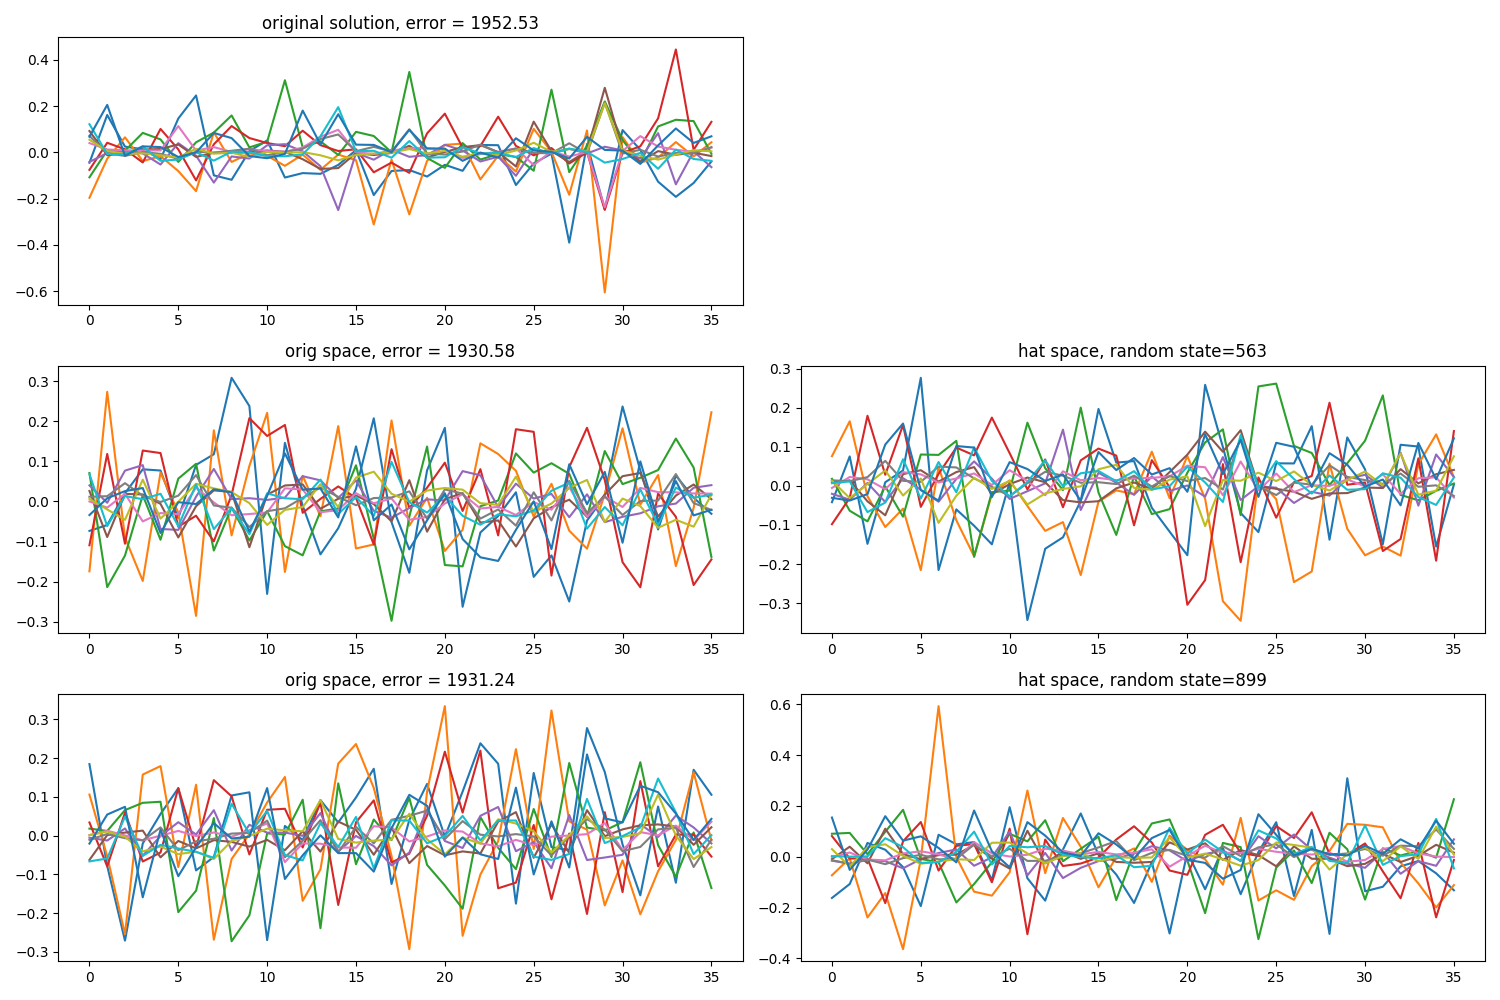
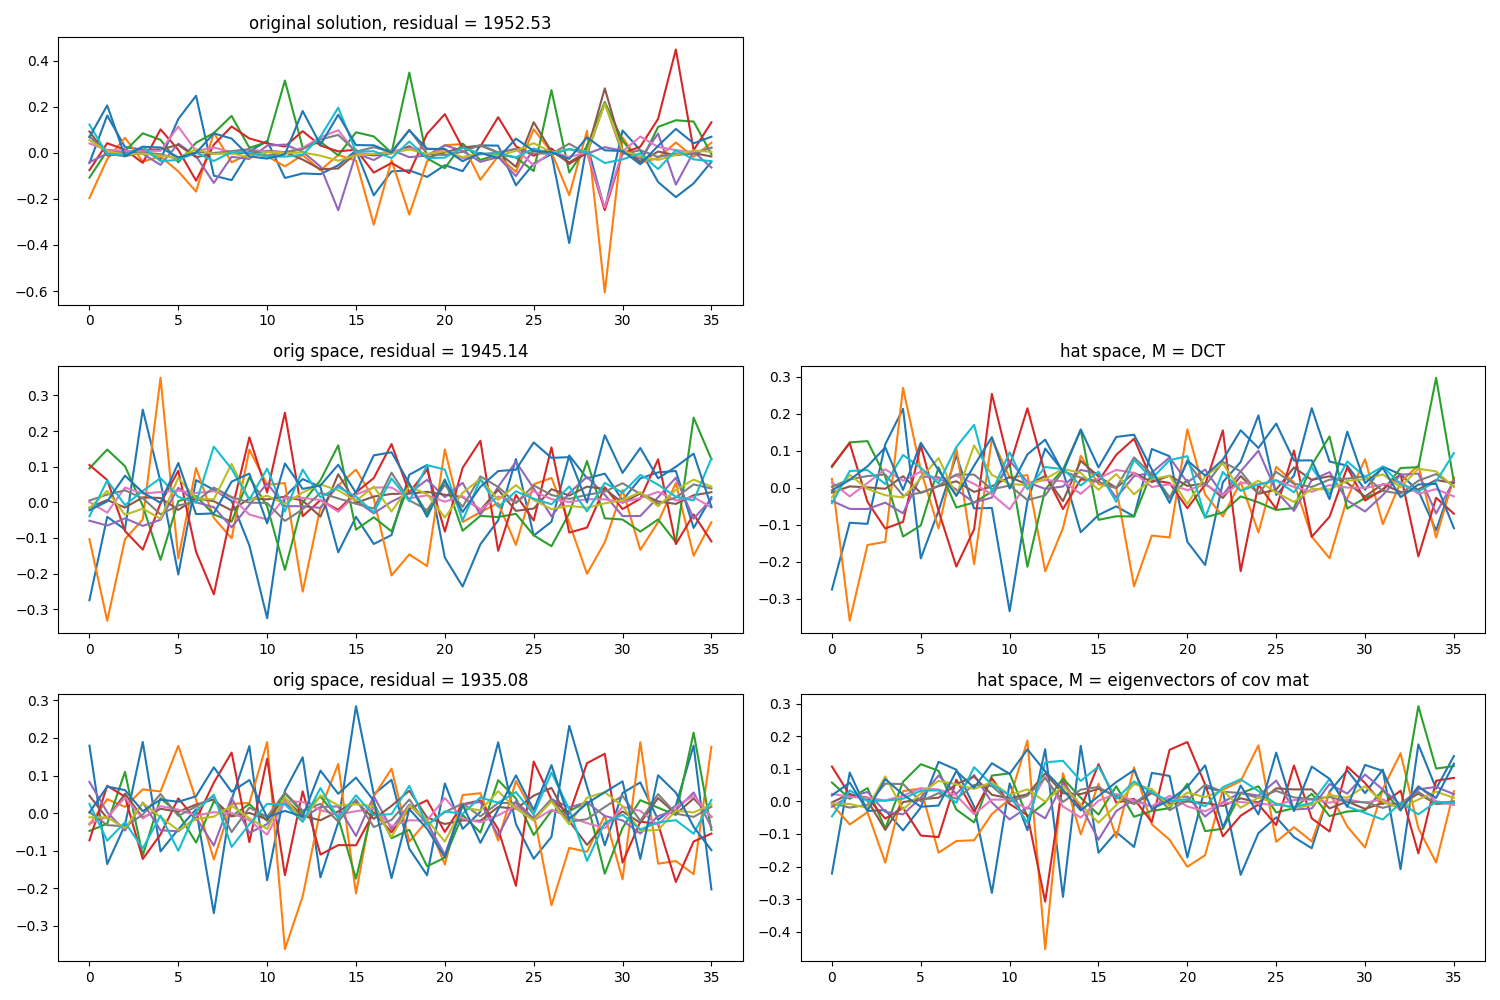
fixed Cholesky_direct to work correctly for original space. inverse and cholesky decomposition utilize broadcast numpy linalg property

diff --git a/compare_real_dts.py b/compare_real_dts.py
@@ -4,10 +4,12 @@ import matplotlib.pyplot as plt
 import algo
 import pickle
 from matplotlib.pyplot import cm
-from mprod import generate_haar, generate_dct
+from mprod import generate_haar, generate_dct, x_m3
+from numpy import linalg as LA
 
 
-tenX = pickle.load(open('datasets/rainfall_ten', 'rb')).transpose(2, 1, 0)
+R = 1
+tenX = pickle.load(open('datasets/rainfall_ten', 'rb'))
 print(tenX.shape)
 
 tenA = tenX[:, :-2, :]
@@ -25,7 +27,7 @@ tenA_norm = (tenA - np.expand_dims(tenA.mean(0), 0))
 omatB_norm = (omatB - np.expand_dims(omatB.mean(0), 0))
 tenAbias = np.concatenate((np.ones((m, 1, n)), tenA_norm), 1)
 
-X_pred_identity = algo.Cholesky_direct(tenA_norm, omatB_norm, reg=0.1)
+X_pred_identity = algo.Cholesky_direct(tenA_norm, omatB_norm, reg=R)
 identity_error = algo.tensor_frob_norm(algo.facewise_mult(tenA_norm, X_pred_identity)-omatB_norm)
 print(identity_error)
 
@@ -33,29 +35,48 @@ print(identity_error)
 plt.figure(figsize=(15, 10))
 plt.subplot(3, 2, 1)
 plt.plot(X_pred_identity[:, 0, :].T)
-plt.title(f'original solution, error = {np.round(identity_error, 2)}')
+plt.title(f'original solution, residual = {np.round(identity_error, 2)}')
 
-found = 0
-i = 0
-while found < 2:
-       funM, invM = generate_haar(n, random_state=i)
-       # tenAhat_norm = funM(tenA_norm)
-       # omatBhat_norm = funM(omatB_norm)
-       X_pred = algo.Cholesky_direct(tenA_norm, omatB_norm, reg=0.1, funM=funM, invM=invM)
-       error_hat = algo.tensor_frob_norm(algo.facewise_mult(funM(tenA_norm), funM(X_pred))-funM(omatB_norm))
-       error = algo.tensor_frob_norm(algo.m_prod(tenA_norm, X_pred, funM, invM) - omatB_norm)
-#
-       if error < 0.99*identity_error:
-           found+=1
-           print(found)
-           plt.subplot(3, 2, 2*found+1)
-           plt.plot(invM(X_pred)[:, 0, :].T)
-           plt.title(f'orig space, error = {np.round(error, 2)}')
-           plt.subplot(3, 2, 2*found+2)
-           plt.plot(funM(X_pred)[:, 0, :].T)
-           plt.title(f'hat space, random state={i}')
-       i += 1
+
+
+funM, invM = generate_dct(n)
+# tenAhat_norm = funM(tenA_norm)
+# omatBhat_norm = funM(omatB_norm)
+X_pred = algo.Cholesky_direct(tenA_norm, omatB_norm, reg=R, funM=funM, invM=invM)
+error_hat = algo.tensor_frob_norm(algo.facewise_mult(funM(tenA_norm), funM(X_pred))-funM(omatB_norm))
+error = algo.tensor_frob_norm(algo.m_prod(tenA_norm, X_pred, funM, invM) - omatB_norm)
+
+plt.subplot(3, 2, 3)
+plt.plot(invM(X_pred)[:, 0, :].T)
+plt.title(f'orig space, residual = {np.round(error, 2)}')
+plt.subplot(3, 2, 4)
+plt.plot(funM(X_pred)[:, 0, :].T)
+plt.title(f'hat space, M = DCT')
+
+def generate_corr(ten):
+    m, p, n = ten.shape
+    X = ten.sum(1)
+    X_cent = (X - X.mean(0))/X.std(0)
+    X_corr = X_cent.T @ X_cent/m
+    eigenvalues, eigenvectors = LA.eig(X_corr)
+    return x_m3(eigenvectors.T), x_m3(eigenvectors)
+
+
+funM, invM = generate_corr(tenA)
+
+X_pred = algo.Cholesky_direct(tenA_norm, omatB_norm, reg=R, funM=funM, invM=invM)
+error_hat = algo.tensor_frob_norm(algo.facewise_mult(funM(tenA_norm), funM(X_pred))-funM(omatB_norm))
+error = algo.tensor_frob_norm(algo.m_prod(tenA_norm, X_pred, funM, invM) - omatB_norm)
+print(np.isclose(error_hat, error))
+
+plt.subplot(3, 2, 5)
+plt.plot(invM(X_pred)[:, 0, :].T)
+plt.title(f'orig space, residual = {np.round(error, 2)}')
+plt.subplot(3, 2, 6)
+plt.plot(funM(X_pred)[:, 0, :].T)
+plt.title(f'hat space, M = eigenvectors of cov mat')
 
 plt.tight_layout()
-plt.savefig('datasets/rainfall_figure_year')
+plt.savefig('datasets/rainfall_figure')
 plt.show()
+
